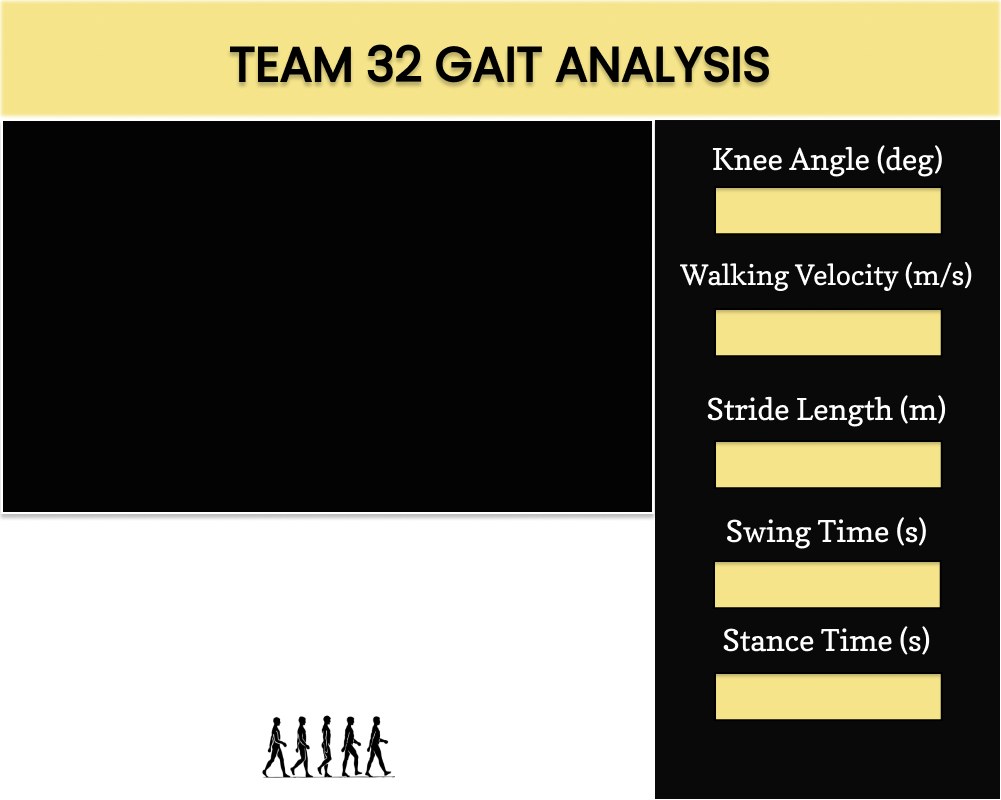
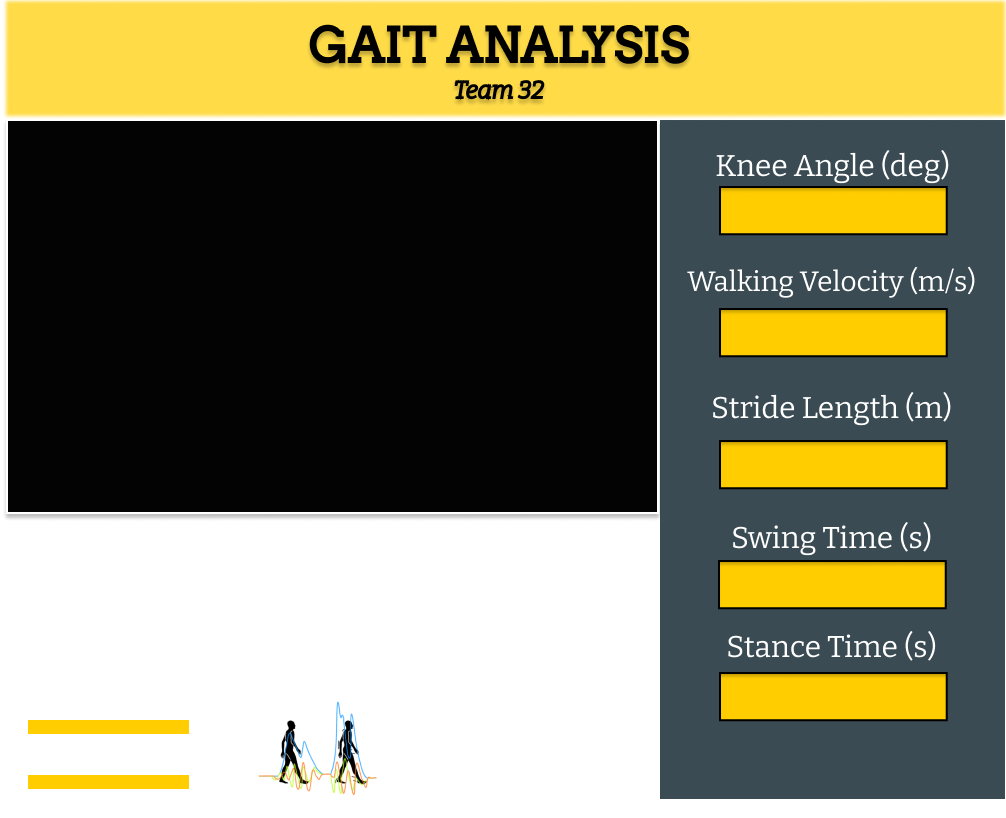
Fixed previous plot error

diff --git a/dp.py b/dp.py
@@ -164,11 +164,18 @@ def click_input(event):
     print("Clicked!")
 
 
-def get_input():
+def set_input():
+    global previous_flag
     global entry0
+    global clicked
+
     print (entry0.get())
     clicked = False
-    return entry0.get()    
+    
+    if previous_flag:
+        global_var.prev_file = entry0.get()
+    else:
+        global_var.file_to_write = entry0.get()
 
 
 def display_filename_prompt():
@@ -328,7 +335,7 @@ def main():
                     to_avg_knee = []
                     to_avg_shank = []
                     to_avg_thigh = []
-                    write_csv(f"{file_to_write}")
+                    write_csv(f"{global_var.file_to_write}")
 
                 if (process):
                     drawnow(plot)
@@ -360,26 +367,26 @@ def main():
                 stance_time_display = round(process_stance_time, 2)
                 stance_time_text["text"] = f"{stance_time_display}"
             
-            
-
 
             elif (previous_flag):
                 drawnow(compare_previous_plot)
                 plt.pause(.00000001)
-                df = pd.read_csv(f'data/{prev_file}.csv')
-                knee_angle_display = (round(df.Knee_Angle[global_var.df_index],2) if (len(df.index) > 1)  else 0)
+                df = pd.read_csv(f'data/{global_var.prev_file}.csv')
+                print("fahfahfkahfka", len(df.Knee_Angle))
+                print(global_var.df_index-1)
+                knee_angle_display = (round(df.Knee_Angle[global_var.df_index-1],2) if (len(df.Knee_Angle) > 1)  else 0)
                 knee_angle_text["text"] = f"{knee_angle_display}"
 
-                velocity_display = (round(df.Foot_Velocity[global_var.df_index], 2) if (len(df.index) > 1)  else 0)
+                velocity_display = (round(df.Foot_Velocity[global_var.df_index-1], 2) if (len(df.Foot_Velocity) > 1)  else 0)
                 velocity_text["text"] = f"{velocity_display}"
 
-                stride_length_display = (round(df.Stride_Length[global_var.df_index], 2) if (len(df.index) > 1)  else 0)
+                stride_length_display = (round(df.Stride_Length[global_var.df_index-1], 2) if (len(df.Stride_Length) > 1)  else 0)
                 stride_length_text["text"] = f"{stride_length_display}"
 
-                swing_time_display = (round(df.Swing_Time[global_var.df_index], 2)  if (len(df.index) > 1)  else 0)
+                swing_time_display = (round(df.Swing_Time[global_var.df_index-1], 2)  if (len(df.Swing_Time) > 1)  else 0)
                 swing_time_text["text"] = f"{swing_time_display}"
               
-                stance_time_display = (round(df.Stance_Time[global_var.df_index], 2)  if (len(df.index) > 1)  else 0)
+                stance_time_display = (round(df.Stance_Time[global_var.df_index-1], 2)  if (len(df.Stance_Time) > 1)  else 0)
                 stance_time_text["text"] = f"{stance_time_display}"
                
 
@@ -393,7 +400,7 @@ window.geometry("1000x800")
 window.configure(bg = "#ffffff")
 canvas = Canvas(
     window,
-    bg = "#ffffff",
+    bg = "#3A4B53",
     height = 800,
     width = 1000,
     bd = 0,
@@ -435,9 +442,10 @@ b5.place(
     height = 62)
 
 
+
 entry0 = Entry(
     bd = 0,
-    bg = "#c4c4c4",
+    bg = "#FFCD00",
     highlightthickness = 0,
     font=('Century 12'),
     justify="center")
@@ -455,7 +463,7 @@ b1 = Button(
     image = img1,
     borderwidth = 0,
     highlightthickness = 0,
-    command = get_input,
+    command = set_input,
     relief = "flat")
 
 
@@ -511,24 +519,24 @@ b4.place(
 
 
 knee_angle_display = round(process_data[-1],2) if (len(process_data)>0)  else round(knee_joint_angle,2)
-knee_angle_text = Label(text=f"{knee_angle_display}", font= ('Helvetica 18'), bg= '#F5E489')
-knee_angle_text.place(x=800, y=199)
+knee_angle_text = Label(text=f"{knee_angle_display}", font= ('Helvetica 18'), bg= '#FFCD00')
+knee_angle_text.place(x=820, y=187)
 
 velocity_display = round(process_velocity, 2)
-velocity_text = Label(text=f"{velocity_display}", font= ('Helvetica 18'), bg= '#F5E489')
-velocity_text.place(x=800, y=321)
+velocity_text = Label(text=f"{velocity_display}", font= ('Helvetica 18'), bg= '#FFCD00')
+velocity_text.place(x=820, y=309)
 
 stride_length_display = round(process_stride_length, 2)
-stride_length_text = Label(text=f"{stride_length_display}", font= ('Helvetica 18'), bg= '#F5E489')
-stride_length_text.place(x=800, y=453)
+stride_length_text = Label(text=f"{stride_length_display}", font= ('Helvetica 18'), bg= '#FFCD00')
+stride_length_text.place(x=820, y=441)
 
 swing_time_display = round(process_swing_time, 2)
-swing_time_text = Label(text=f"{swing_time_display}", font= ('Helvetica 18'), bg= '#F5E489')
-swing_time_text.place(x=800, y=573)
+swing_time_text = Label(text=f"{swing_time_display}", font= ('Helvetica 18'), bg= '#FFCD00')
+swing_time_text.place(x=820, y=561)
 
 stance_time_display = round(process_stance_time, 2)
-stance_time_text = Label(text=f"{stance_time_display}", font= ('Helvetica 18'), bg= '#F5E489')
-stance_time_text.place(x=800, y=685)
+stance_time_text = Label(text=f"{stance_time_display}", font= ('Helvetica 18'), bg= '#FFCD00')
+stance_time_text.place(x=820, y=673)
 
 window.after(1, main)
 window.resizable(False, False)

diff --git a/plot.py b/plot.py
@@ -5,6 +5,7 @@ from matplotlib.figure import Figure
 from py import process
 import global_var
 import pandas as pd
+from time import sleep
 
 def plot_knee_flexion():
     plt.subplot(211)
@@ -74,7 +75,7 @@ def compare_previous_plot():
   
     df = pd.read_csv(f'data/{global_var.prev_file}.csv')
 
-    if (len(df.index) > global_var.df_index): 
+    if (len(df.index-1) > global_var.df_index): 
         global_var.df_prev_angles.append(df.Knee_Angle[global_var.df_index])
         global_var.df_index+=1
         plt.title("Gait Data: Knee Flex/Extension")
@@ -90,7 +91,8 @@ def compare_previous_plot():
         if (len(global_var.df_prev_angles)> 50):
             global_var.df_prev_angles.pop(0)
     else:
-        global_var.df_index = 0
+        global_var.df_index = 1
+        sleep(3)
     
     global_var.df_index = global_var.df_index
 
